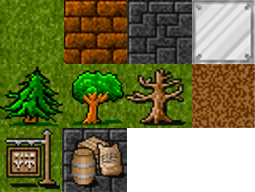
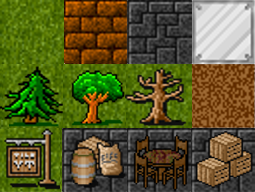
added some more furniture

Changed region(s): [[0.4941, 0.6562, 1.0, 1.0]]

diff --git a/x2-gameproject/x2-gameproject/x2-gameproject/game/TileMap.cs b/x2-gameproject/x2-gameproject/x2-gameproject/game/TileMap.cs
@@ -74,7 +74,8 @@ namespace X2Game
 
                 TileType wallType;
 
-                if (rand.NextDouble() > 0.5) wallType = ResourceManager.GetTile("brickwall.xml");
+                //25% iron wall
+                if (rand.NextDouble() > 0.25) wallType = ResourceManager.GetTile("brickwall.xml");
                 else wallType = ResourceManager.GetTile("ironwall.xml");
 
                 //Place the house itself
@@ -128,12 +129,24 @@ namespace X2Game
                 }
 
                 //Furniture
-                int nrOfFeatures = rand.Next(0, 2);
+                int nrOfFeatures = rand.Next(0, 4);
                 while (nrOfFeatures-- >= 0)
                 {
                     int dx = rand.Next(1, width - 1);
                     int dy = rand.Next(1, height - 1);
-                    _mapSquares[x+dx, y+dy] = ResourceManager.GetTile("supplies.xml"); 
+                    switch (rand.Next(1, 3))
+                    {
+                        case 1:
+                            _mapSquares[x+dx, y+dy] = ResourceManager.GetTile("supplies.xml");
+                            break;
+                        case 2:
+                            _mapSquares[x + dx, y + dy] = ResourceManager.GetTile("tables.xml");
+                            break;
+                        case 3:
+                            _mapSquares[x + dx, y + dy] = ResourceManager.GetTile("boxes.xml");
+                            break;
+                    }
+                    
                 }
             }
         }
